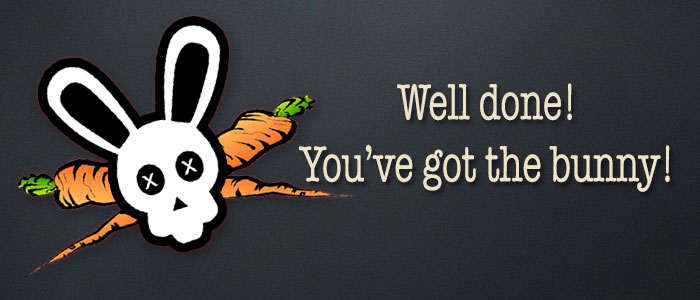
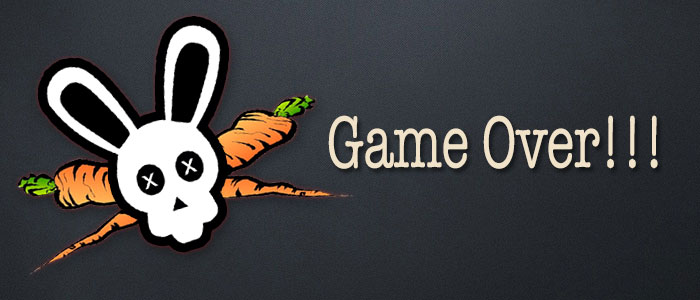
update new game input form & reduced button size

Changed region(s): [[0.42, 0.27, 0.96, 0.66]]

diff --git a/app/assets/stylesheets/application.css b/app/assets/stylesheets/application.css
@@ -44,7 +44,7 @@ nav,
 #map-canvas, 
 #streetview {
 	display: block;
-	xoutline: 1px solid red;
+	xoutline: 1px solid red; /*for.testing*/
 }
 
 body {
@@ -141,7 +141,7 @@ a:active {
 input.newGameButton {
 	border: 2px groove #6b4708;
 	cursor: pointer; /* forces the cursor to change to a hand when the button is hovered */
-	padding: 5px 25px;
+	padding: 8px 5px;
 	/* give the background a gradient */
 	background-color: #f0e2c9; /*required for browsers that don't support gradients*/
 	background: -webkit-gradient(linear, left top, left bottom, from(#f6c060), to(#f0e2c9));
@@ -151,7 +151,7 @@ input.newGameButton {
 	background: linear-gradient(top, #f6c060, #f0e2c9);
 	/*style to the text inside the button*/
 	color: #382606;
-	font-size: 18px;
+	font-size: 16px;
 	/*give the corners a small curve*/
 	-webkit-border-radius: 15px;
 	-moz-border-radius: 15px;
@@ -160,7 +160,7 @@ input.newGameButton {
 	-webkit-box-shadow: rgba(0, 0, 0, .75) 0 2px 6px;
 	-moz-box-shadow: rgba(0, 0, 0, .75) 0 2px 6px;
 	box-shadow: rgba(0, 0, 0, .75) 0 2px 6px;
-	width: 400px;
+	width: 120px;
 }
 /* now style the button's hover and focus states */
 input.newGameButton:hover, 
@@ -172,7 +172,13 @@ input.newGameButton:focus {
 	box-shadow: rgba(0, 0, 0, .25) 0 1px 0px;
 	outline: none;
 }
-
+#address-search-bar {
+	border: 2px solid #6b4708;
+  padding: 10px;
+  margin: 0;
+  width: 340px;
+  font-size: 14px;
+}
 #dialog {
 	display: none;
 }
@@ -182,15 +188,4 @@ input.newGameButton:focus {
 	position: relative;
 	display: none;
 }
-
-
-
-
-
-
-
-
-
-
-
 

diff --git a/app/assets/javascripts/controller.js b/app/assets/javascripts/controller.js
@@ -59,7 +59,7 @@ PlayerController.prototype = {
 		if (data.game_status == true) {
 			clearInterval(this.locationTimer);
 			this.sendWinMessageToAll()
-			this.view.showWinModal()
+			
 		}
 
 	},
@@ -158,7 +158,7 @@ PlayerController.prototype = {
 			self.view.showStreetView(data.message)
 		});
 		this.channel.bind('win_message', function(data){
-			alert(data.message)
+			self.view.showWinModal(data.message)
 		});
 	},
 

diff --git a/app/assets/javascripts/view.js b/app/assets/javascripts/view.js
@@ -108,7 +108,7 @@ View.prototype = {
         $('#streetview').html('<img class="streetview" src='+baseUri+latlng+'>')
     },
 
-    showWinModal: function() {
+    showWinModal: function(message) {
         $("#dialog").dialog({
             width: 735,
             autoOpen: true,
